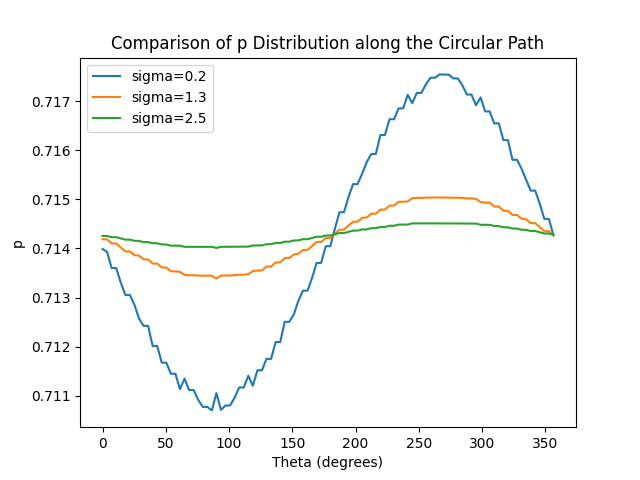
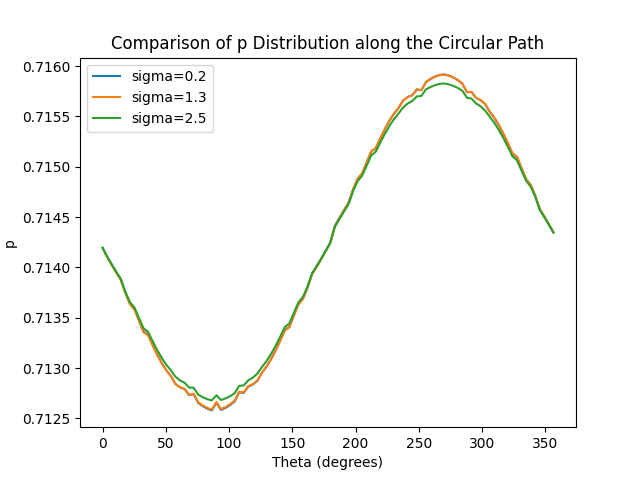
保存パスをレポートのディレクトリ直接にした

diff --git a/cp_compare_diffmesh.py b/cp_compare_diffmesh.py
@@ -4,23 +4,27 @@ import pyvista as pv
 
 # vtkファイルのパスリスト
 filename0 = r'\\wsl.localhost\Ubuntu-20.04\home\hiroaki\sensitivity_measurement\RANS\2d_run\flowCart.vtk'
-filename1 = r'\\wsl.localhost\Ubuntu-20.04\home\hiroaki\sensitivity_measurement\sigma_point1\2d_run\flowCart.vtk'
-filename2 = r'\\wsl.localhost\Ubuntu-20.04\home\hiroaki\sensitivity_measurement\sigma_1point3\2d_run\flowCart.vtk'
-filename3 = r'\\wsl.localhost\Ubuntu-20.04\home\hiroaki\sensitivity_measurement\sigma_2point5\2d_run\flowCart.vtk'
+filename1 = r'\\wsl.localhost\Ubuntu-20.04\home\hiroaki\sensitivity_measurement\sigma_point02\flowCart.vtk'
+filename2 = r'\\wsl.localhost\Ubuntu-20.04\home\hiroaki\sensitivity_measurement\sigma_point2\2d_run\flowCart.vtk'
+filename3 = r'\\wsl.localhost\Ubuntu-20.04\home\hiroaki\sensitivity_measurement\sigma_1point0\2d_run\flowCart.vtk'
 vtk_files = [filename0, filename1, filename2, filename3]
-
+# filename1 = r'\\wsl.localhost\Ubuntu-20.04\home\hiroaki\sensitivity_measurement\sigma_point02\flowCart.vtk'
+# filename2 = r'\\wsl.localhost\Ubuntu-20.04\home\hiroaki\sensitivity_measurement\sigma_point2\2d_run\flowCart.vtk'
+# filename3 = r'\\wsl.localhost\Ubuntu-20.04\home\hiroaki\sensitivity_measurement\sigma_1point0\2d_run\flowCart.vtk'
+# vtk_files = [filename1, filename2, filename3]
 # セルデータのキー（例えば "cp" や "p" など）を指定
 key = "p"
 
 # グラフの色
 colors = ["red", "blue", "green","orange"]
-
+# colors = ["red", "blue", "green"]
 # グラフのラベル
-labels = ["RANS","sigma=0.2","sigma=1.8","sigma=2.5"]
+labels = ["RANS","sigma=0.02","sigma=0.2","sigma=1.0"]
+# labels = ["sigma=0.02","sigma=0.2","sigma=1.0"]
 
 # 原点と半径を設定
 origin = [0, 0, 0]
-radius = 2.0
+radius = 0.5
 
 # 円周上の点の数
 num_points = 100
@@ -56,6 +60,9 @@ for i, vtk_file in enumerate(vtk_files):
 
 plt.xlabel("Theta(deg)")
 plt.ylabel(key)
-plt.title(f"Distribution of {key} along the circular path")
+plt.title(f"Distribution of {key} along the circular path @ R = {radius}")
 plt.legend()
+#plt.ylim(0, 0.8)
+plt.savefig(r'\\wsl.localhost\Ubuntu-20.04\home\hiroaki\report\b4labmtg\0530\figures\ranscompareAtR05.png')
+# plt.savefig(r'\\wsl.localhost\Ubuntu-20.04\home\hiroaki\report\b4labmtg\0530\figures\compareAtR05.png')
 plt.show()

diff --git a/main.py b/main.py
@@ -2,11 +2,13 @@ import pyvista as pv
 
 # vtkファイルの読み込み
 filename = r'\\wsl.localhost\Ubuntu-20.04\home\hiroaki\sensitivity_measurement\RANS\2d_run\flowCart.vtk'
+# filename = r'\\wsl.localhost\Ubuntu-20.04\home\hiroaki\sensitivity_measurement\sigma_point02\2d_run\flowCart.vtk'
+# filename = r'\\wsl.localhost\Ubuntu-20.04\home\hiroaki\sensitivity_measurement\sigma_point02\flowCart.vtk'
 mesh = pv.read(filename)
 
 # 表示倍率の設定
-magnification = 10.0
-
+# magnification = 5.0  #default
+magnification = 20.0 #upscale 
 # 表示スカラーの指定
 scalar_data = mesh.cell_data.get_array("p")
 
@@ -25,11 +27,12 @@ p.camera_set = True
 
 # プロットの実行
 print("begin plot")
-#p.show(interactive=False)
-p.show()
+p.show(interactive=False)
+# p.show()
 print("end plot")
 
 # 画像の保存
-output_filename = r'C:\Users\hiroa\Documents\vtkVisualize\images\image.png'
+# output_filename = r'C:\Users\hiroa\Documents\vtkVisualize\images\0p02.png'
+output_filename = r'\\wsl.localhost\Ubuntu-20.04\home\hiroaki\report\b4labmtg\0530\figures\images\rans_upscale.png'
 p.screenshot(output_filename)
 print("sucessfully saved")

diff --git a/cp_compare_norans.py b/cp_compare_norans.py
@@ -4,8 +4,8 @@ import pyvista as pv
 
 # VTKファイルのファイル名リスト
 filename1 = r'\\wsl.localhost\Ubuntu-20.04\home\hiroaki\sensitivity_measurement\sigma_point2\2d_run\flowCart.vtk'
-filename2 = r'\\wsl.localhost\Ubuntu-20.04\home\hiroaki\sensitivity_measurement\sigma_1point3\2d_run\flowCart.vtk'
-filename3 = r'\\wsl.localhost\Ubuntu-20.04\home\hiroaki\sensitivity_measurement\sigma_2point5\2d_run\flowCart.vtk'
+filename2 = r'\\wsl.localhost\Ubuntu-20.04\home\hiroaki\sensitivity_measurement\sigma_point5\2d_run\flowCart.vtk'
+filename3 = r'\\wsl.localhost\Ubuntu-20.04\home\hiroaki\sensitivity_measurement\sigma_point8\2d_run\flowCart.vtk'
 filenames = [filename1, filename2,filename3]
 labels = ["sigma=0.2","sigma=1.3","sigma=2.5"]
 # グラフのプロット用の配列
@@ -24,7 +24,7 @@ for filename in filenames:
 
 # 原点と半径を設定
 origin = [0, 0, 0]
-radius = 1.0
+radius = 2.0
 
 # 円周上の点の数
 num_points = 100
